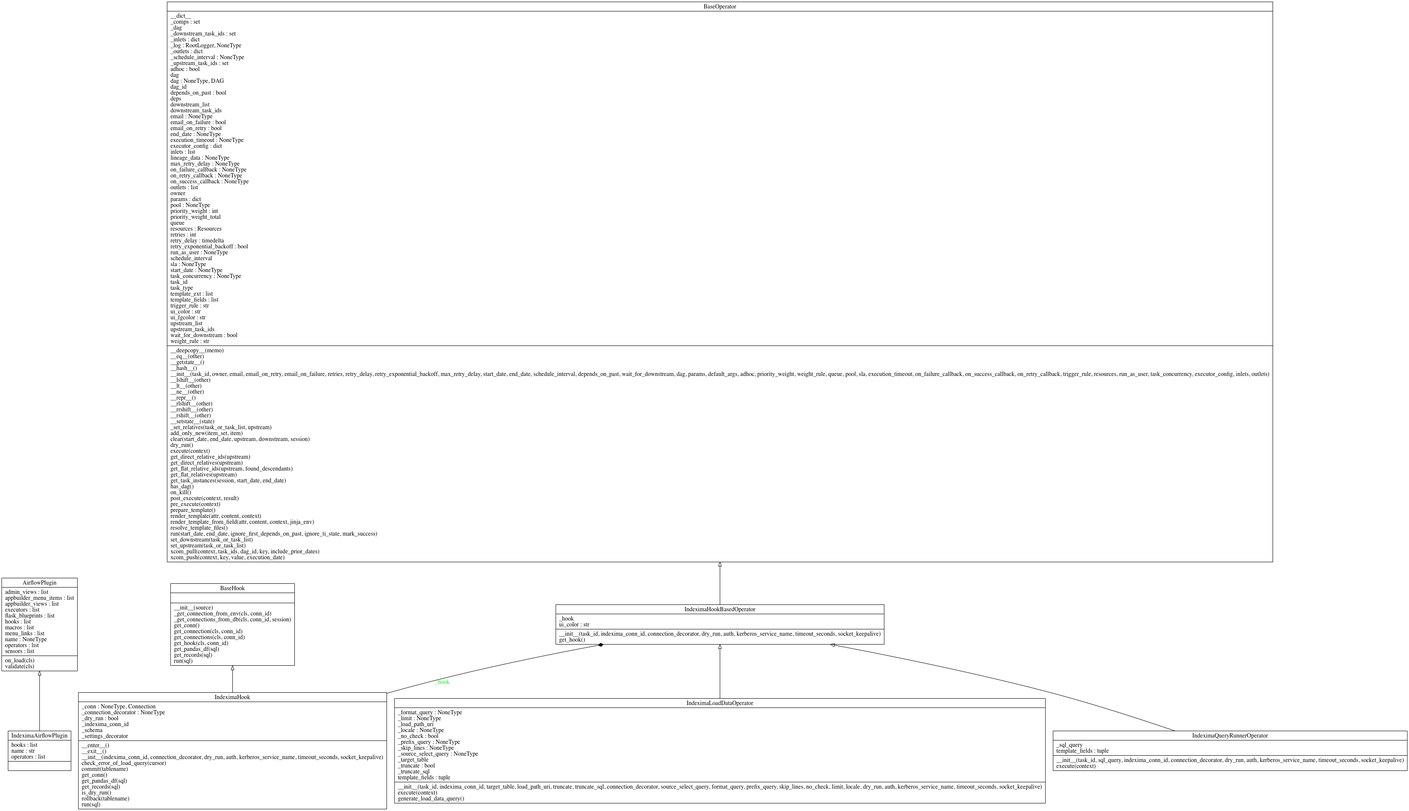
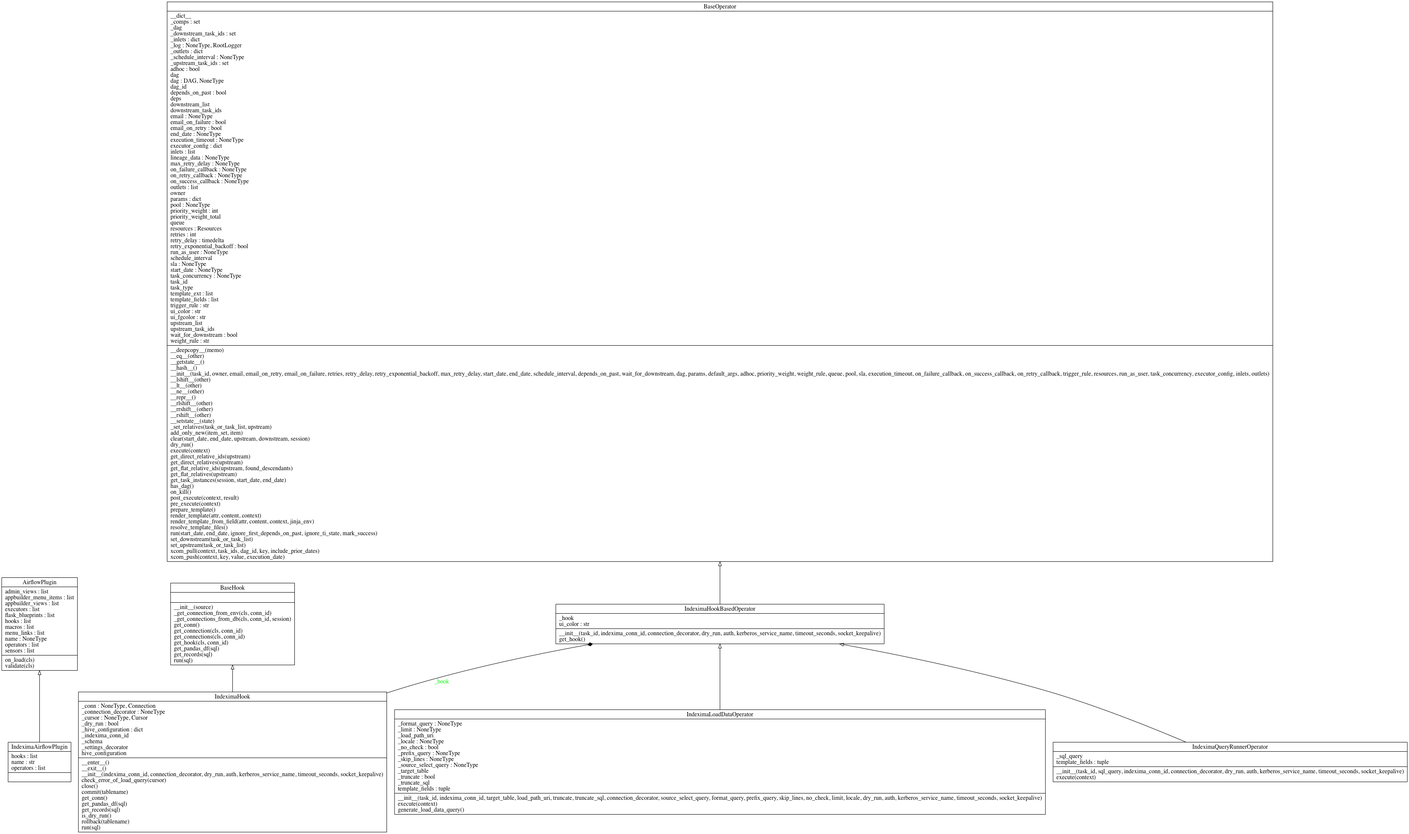
add doc

diff --git a/docs/api/operators/index.html b/docs/api/operators/index.html
@@ -677,7 +677,7 @@
                 <h1 id="airflow_indeximaoperatorsindexima">airflow_indexima.operators.indexima<a class="headerlink" href="#airflow_indeximaoperatorsindexima" title="Permanent link">&para;</a></h1>
 <p>Indexima operators module definition.</p>
 <h2 id="indeximahookbasedoperator">IndeximaHookBasedOperator<a class="headerlink" href="#indeximahookbasedoperator" title="Permanent link">&para;</a></h2>
-<p><div class="codehilite"><pre><span></span><span class="n">IndeximaHookBasedOperator</span><span class="p">(</span><span class="bp">self</span><span class="p">,</span> <span class="n">task_id</span><span class="p">:</span><span class="nb">str</span><span class="p">,</span> <span class="n">indexima_conn_id</span><span class="p">:</span><span class="nb">str</span><span class="p">,</span> <span class="n">connection_decorator</span><span class="p">:</span><span class="n">Union</span><span class="p">[</span><span class="n">Callable</span><span class="p">[[</span><span class="n">airflow</span><span class="o">.</span><span class="n">models</span><span class="o">.</span><span class="n">Connection</span><span class="p">],</span> <span class="n">airflow</span><span class="o">.</span><span class="n">models</span><span class="o">.</span><span class="n">Connection</span><span class="p">],</span> <span class="n">NoneType</span><span class="p">]</span><span class="o">=</span><span class="kc">None</span><span class="p">,</span> <span class="n">dry_run</span><span class="p">:</span><span class="n">Union</span><span class="p">[</span><span class="nb">bool</span><span class="p">,</span> <span class="n">NoneType</span><span class="p">]</span><span class="o">=</span><span class="kc">False</span><span class="p">,</span> <span class="n">auth</span><span class="p">:</span><span class="n">Union</span><span class="p">[</span><span class="nb">str</span><span class="p">,</span> <span class="n">NoneType</span><span class="p">]</span><span class="o">=</span><span class="kc">None</span><span class="p">,</span> <span class="n">kerberos_service_name</span><span class="p">:</span><span class="n">Union</span><span class="p">[</span><span class="nb">str</span><span class="p">,</span> <span class="n">NoneType</span><span class="p">]</span><span class="o">=</span><span class="kc">None</span><span class="p">,</span> <span class="n">timeout_seconds</span><span class="p">:</span><span class="n">Union</span><span class="p">[</span><span class="nb">int</span><span class="p">,</span> <span class="n">NoneType</span><span class="p">]</span><span class="o">=</span><span class="kc">None</span><span class="p">,</span> <span class="n">socket_keepalive</span><span class="p">:</span><span class="n">Union</span><span class="p">[</span><span class="nb">bool</span><span class="p">,</span> <span class="n">NoneType</span><span class="p">]</span><span class="o">=</span><span class="kc">None</span><span class="p">,</span> <span class="o">*</span><span class="n">args</span><span class="p">,</span> <span class="o">**</span><span class="n">kwargs</span><span class="p">)</span>
+<p><div class="codehilite"><pre><span></span><span class="n">IndeximaHookBasedOperator</span><span class="p">(</span><span class="bp">self</span><span class="p">,</span> <span class="n">task_id</span><span class="p">:</span><span class="nb">str</span><span class="p">,</span> <span class="n">indexima_conn_id</span><span class="p">:</span><span class="nb">str</span><span class="p">,</span> <span class="n">connection_decorator</span><span class="p">:</span><span class="n">Union</span><span class="p">[</span><span class="n">Callable</span><span class="p">[[</span><span class="n">airflow</span><span class="o">.</span><span class="n">models</span><span class="o">.</span><span class="n">Connection</span><span class="p">],</span> <span class="n">airflow</span><span class="o">.</span><span class="n">models</span><span class="o">.</span><span class="n">Connection</span><span class="p">],</span> <span class="n">NoneType</span><span class="p">]</span><span class="o">=</span><span class="kc">None</span><span class="p">,</span> <span class="n">dry_run</span><span class="p">:</span><span class="n">Union</span><span class="p">[</span><span class="nb">bool</span><span class="p">,</span> <span class="n">NoneType</span><span class="p">]</span><span class="o">=</span><span class="kc">False</span><span class="p">,</span> <span class="n">auth</span><span class="p">:</span><span class="n">Union</span><span class="p">[</span><span class="nb">str</span><span class="p">,</span> <span class="n">NoneType</span><span class="p">]</span><span class="o">=</span><span class="kc">None</span><span class="p">,</span> <span class="n">kerberos_service_name</span><span class="p">:</span><span class="n">Union</span><span class="p">[</span><span class="nb">str</span><span class="p">,</span> <span class="n">NoneType</span><span class="p">]</span><span class="o">=</span><span class="kc">None</span><span class="p">,</span> <span class="n">timeout_seconds</span><span class="p">:</span><span class="n">Union</span><span class="p">[</span><span class="nb">int</span><span class="p">,</span> <span class="n">datetime</span><span class="o">.</span><span class="n">timedelta</span><span class="p">,</span> <span class="n">NoneType</span><span class="p">]</span><span class="o">=</span><span class="kc">None</span><span class="p">,</span> <span class="n">socket_keepalive</span><span class="p">:</span><span class="n">Union</span><span class="p">[</span><span class="nb">bool</span><span class="p">,</span> <span class="n">NoneType</span><span class="p">]</span><span class="o">=</span><span class="kc">None</span><span class="p">,</span> <span class="o">*</span><span class="n">args</span><span class="p">,</span> <span class="o">**</span><span class="n">kwargs</span><span class="p">)</span>
 </pre></div>
 Our base class for indexima operator.</p>
 <p>This class act as a wrapper on IndeximaHook.</p>
@@ -696,7 +696,7 @@ errors defaults to 'strict'.</p>
 </pre></div>
 Return a configured IndeximaHook instance.</p>
 <h2 id="indeximaqueryrunneroperator">IndeximaQueryRunnerOperator<a class="headerlink" href="#indeximaqueryrunneroperator" title="Permanent link">&para;</a></h2>
-<p><div class="codehilite"><pre><span></span><span class="n">IndeximaQueryRunnerOperator</span><span class="p">(</span><span class="bp">self</span><span class="p">,</span> <span class="n">task_id</span><span class="p">:</span><span class="nb">str</span><span class="p">,</span> <span class="n">sql_query</span><span class="p">:</span><span class="nb">str</span><span class="p">,</span> <span class="n">indexima_conn_id</span><span class="p">:</span><span class="nb">str</span><span class="p">,</span> <span class="n">connection_decorator</span><span class="p">:</span><span class="n">Union</span><span class="p">[</span><span class="n">Callable</span><span class="p">[[</span><span class="n">airflow</span><span class="o">.</span><span class="n">models</span><span class="o">.</span><span class="n">Connection</span><span class="p">],</span> <span class="n">airflow</span><span class="o">.</span><span class="n">models</span><span class="o">.</span><span class="n">Connection</span><span class="p">],</span> <span class="n">NoneType</span><span class="p">]</span><span class="o">=</span><span class="kc">None</span><span class="p">,</span> <span class="n">dry_run</span><span class="p">:</span><span class="n">Union</span><span class="p">[</span><span class="nb">bool</span><span class="p">,</span> <span class="n">NoneType</span><span class="p">]</span><span class="o">=</span><span class="kc">False</span><span class="p">,</span> <span class="n">auth</span><span class="p">:</span><span class="n">Union</span><span class="p">[</span><span class="nb">str</span><span class="p">,</span> <span class="n">NoneType</span><span class="p">]</span><span class="o">=</span><span class="kc">None</span><span class="p">,</span> <span class="n">kerberos_service_name</span><span class="p">:</span><span class="n">Union</span><span class="p">[</span><span class="nb">str</span><span class="p">,</span> <span class="n">NoneType</span><span class="p">]</span><span class="o">=</span><span class="kc">None</span><span class="p">,</span> <span class="n">timeout_seconds</span><span class="p">:</span><span class="n">Union</span><span class="p">[</span><span class="nb">int</span><span class="p">,</span> <span class="n">NoneType</span><span class="p">]</span><span class="o">=</span><span class="kc">None</span><span class="p">,</span> <span class="n">socket_keepalive</span><span class="p">:</span><span class="n">Union</span><span class="p">[</span><span class="nb">bool</span><span class="p">,</span> <span class="n">NoneType</span><span class="p">]</span><span class="o">=</span><span class="kc">None</span><span class="p">,</span> <span class="o">*</span><span class="n">args</span><span class="p">,</span> <span class="o">**</span><span class="n">kwargs</span><span class="p">)</span>
+<p><div class="codehilite"><pre><span></span><span class="n">IndeximaQueryRunnerOperator</span><span class="p">(</span><span class="bp">self</span><span class="p">,</span> <span class="n">task_id</span><span class="p">:</span><span class="nb">str</span><span class="p">,</span> <span class="n">sql_query</span><span class="p">:</span><span class="nb">str</span><span class="p">,</span> <span class="n">indexima_conn_id</span><span class="p">:</span><span class="nb">str</span><span class="p">,</span> <span class="n">connection_decorator</span><span class="p">:</span><span class="n">Union</span><span class="p">[</span><span class="n">Callable</span><span class="p">[[</span><span class="n">airflow</span><span class="o">.</span><span class="n">models</span><span class="o">.</span><span class="n">Connection</span><span class="p">],</span> <span class="n">airflow</span><span class="o">.</span><span class="n">models</span><span class="o">.</span><span class="n">Connection</span><span class="p">],</span> <span class="n">NoneType</span><span class="p">]</span><span class="o">=</span><span class="kc">None</span><span class="p">,</span> <span class="n">dry_run</span><span class="p">:</span><span class="n">Union</span><span class="p">[</span><span class="nb">bool</span><span class="p">,</span> <span class="n">NoneType</span><span class="p">]</span><span class="o">=</span><span class="kc">False</span><span class="p">,</span> <span class="n">auth</span><span class="p">:</span><span class="n">Union</span><span class="p">[</span><span class="nb">str</span><span class="p">,</span> <span class="n">NoneType</span><span class="p">]</span><span class="o">=</span><span class="kc">None</span><span class="p">,</span> <span class="n">kerberos_service_name</span><span class="p">:</span><span class="n">Union</span><span class="p">[</span><span class="nb">str</span><span class="p">,</span> <span class="n">NoneType</span><span class="p">]</span><span class="o">=</span><span class="kc">None</span><span class="p">,</span> <span class="n">timeout_seconds</span><span class="p">:</span><span class="n">Union</span><span class="p">[</span><span class="nb">int</span><span class="p">,</span> <span class="n">datetime</span><span class="o">.</span><span class="n">timedelta</span><span class="p">,</span> <span class="n">NoneType</span><span class="p">]</span><span class="o">=</span><span class="kc">None</span><span class="p">,</span> <span class="n">socket_keepalive</span><span class="p">:</span><span class="n">Union</span><span class="p">[</span><span class="nb">bool</span><span class="p">,</span> <span class="n">NoneType</span><span class="p">]</span><span class="o">=</span><span class="kc">None</span><span class="p">,</span> <span class="o">*</span><span class="n">args</span><span class="p">,</span> <span class="o">**</span><span class="n">kwargs</span><span class="p">)</span>
 </pre></div>
 A simple query executor.</p>
 <h3 id="template_fields">template_fields<a class="headerlink" href="#template_fields" title="Permanent link">&para;</a></h3>
@@ -712,7 +712,7 @@ Execute sql query.</p>
 <li><strong>context</strong>: dag context</li>
 </ul>
 <h2 id="indeximaloaddataoperator">IndeximaLoadDataOperator<a class="headerlink" href="#indeximaloaddataoperator" title="Permanent link">&para;</a></h2>
-<p><div class="codehilite"><pre><span></span><span class="n">IndeximaLoadDataOperator</span><span class="p">(</span><span class="bp">self</span><span class="p">,</span> <span class="n">task_id</span><span class="p">:</span><span class="nb">str</span><span class="p">,</span> <span class="n">indexima_conn_id</span><span class="p">:</span><span class="nb">str</span><span class="p">,</span> <span class="n">target_table</span><span class="p">:</span><span class="nb">str</span><span class="p">,</span> <span class="n">load_path_uri</span><span class="p">:</span><span class="nb">str</span><span class="p">,</span> <span class="n">truncate</span><span class="p">:</span><span class="nb">bool</span><span class="o">=</span><span class="kc">False</span><span class="p">,</span> <span class="n">truncate_sql</span><span class="p">:</span><span class="n">Union</span><span class="p">[</span><span class="nb">str</span><span class="p">,</span> <span class="n">NoneType</span><span class="p">]</span><span class="o">=</span><span class="kc">None</span><span class="p">,</span> <span class="n">connection_decorator</span><span class="p">:</span><span class="n">Union</span><span class="p">[</span><span class="n">Callable</span><span class="p">[[</span><span class="n">airflow</span><span class="o">.</span><span class="n">models</span><span class="o">.</span><span class="n">Connection</span><span class="p">],</span> <span class="n">airflow</span><span class="o">.</span><span class="n">models</span><span class="o">.</span><span class="n">Connection</span><span class="p">],</span> <span class="n">NoneType</span><span class="p">]</span><span class="o">=</span><span class="kc">None</span><span class="p">,</span> <span class="n">source_select_query</span><span class="p">:</span><span class="n">Union</span><span class="p">[</span><span class="nb">str</span><span class="p">,</span> <span class="n">NoneType</span><span class="p">]</span><span class="o">=</span><span class="kc">None</span><span class="p">,</span> <span class="n">format_query</span><span class="p">:</span><span class="n">Union</span><span class="p">[</span><span class="nb">str</span><span class="p">,</span> <span class="n">NoneType</span><span class="p">]</span><span class="o">=</span><span class="kc">None</span><span class="p">,</span> <span class="n">prefix_query</span><span class="p">:</span><span class="n">Union</span><span class="p">[</span><span class="nb">str</span><span class="p">,</span> <span class="n">NoneType</span><span class="p">]</span><span class="o">=</span><span class="kc">None</span><span class="p">,</span> <span class="n">skip_lines</span><span class="p">:</span><span class="n">Union</span><span class="p">[</span><span class="nb">int</span><span class="p">,</span> <span class="n">NoneType</span><span class="p">]</span><span class="o">=</span><span class="kc">None</span><span class="p">,</span> <span class="n">no_check</span><span class="p">:</span><span class="n">Union</span><span class="p">[</span><span class="nb">bool</span><span class="p">,</span> <span class="n">NoneType</span><span class="p">]</span><span class="o">=</span><span class="kc">False</span><span class="p">,</span> <span class="n">limit</span><span class="p">:</span><span class="n">Union</span><span class="p">[</span><span class="nb">int</span><span class="p">,</span> <span class="n">NoneType</span><span class="p">]</span><span class="o">=</span><span class="kc">None</span><span class="p">,</span> <span class="n">locale</span><span class="p">:</span><span class="n">Union</span><span class="p">[</span><span class="nb">str</span><span class="p">,</span> <span class="n">NoneType</span><span class="p">]</span><span class="o">=</span><span class="kc">None</span><span class="p">,</span> <span class="n">dry_run</span><span class="p">:</span><span class="n">Union</span><span class="p">[</span><span class="nb">bool</span><span class="p">,</span> <span class="n">NoneType</span><span class="p">]</span><span class="o">=</span><span class="kc">False</span><span class="p">,</span> <span class="n">auth</span><span class="p">:</span><span class="n">Union</span><span class="p">[</span><span class="nb">str</span><span class="p">,</span> <span class="n">NoneType</span><span class="p">]</span><span class="o">=</span><span class="kc">None</span><span class="p">,</span> <span class="n">kerberos_service_name</span><span class="p">:</span><span class="n">Union</span><span class="p">[</span><span class="nb">str</span><span class="p">,</span> <span class="n">NoneType</span><span class="p">]</span><span class="o">=</span><span class="kc">None</span><span class="p">,</span> <span class="n">timeout_seconds</span><span class="p">:</span><span class="n">Union</span><span class="p">[</span><span class="nb">int</span><span class="p">,</span> <span class="n">NoneType</span><span class="p">]</span><span class="o">=</span><span class="kc">None</span><span class="p">,</span> <span class="n">socket_keepalive</span><span class="p">:</span><span class="n">Union</span><span class="p">[</span><span class="nb">bool</span><span class="p">,</span> <span class="n">NoneType</span><span class="p">]</span><span class="o">=</span><span class="kc">None</span><span class="p">,</span> <span class="o">*</span><span class="n">args</span><span class="p">,</span> <span class="o">**</span><span class="n">kwargs</span><span class="p">)</span>
+<p><div class="codehilite"><pre><span></span><span class="n">IndeximaLoadDataOperator</span><span class="p">(</span><span class="bp">self</span><span class="p">,</span> <span class="n">task_id</span><span class="p">:</span><span class="nb">str</span><span class="p">,</span> <span class="n">indexima_conn_id</span><span class="p">:</span><span class="nb">str</span><span class="p">,</span> <span class="n">target_table</span><span class="p">:</span><span class="nb">str</span><span class="p">,</span> <span class="n">load_path_uri</span><span class="p">:</span><span class="nb">str</span><span class="p">,</span> <span class="n">truncate</span><span class="p">:</span><span class="nb">bool</span><span class="o">=</span><span class="kc">False</span><span class="p">,</span> <span class="n">truncate_sql</span><span class="p">:</span><span class="n">Union</span><span class="p">[</span><span class="nb">str</span><span class="p">,</span> <span class="n">NoneType</span><span class="p">]</span><span class="o">=</span><span class="kc">None</span><span class="p">,</span> <span class="n">connection_decorator</span><span class="p">:</span><span class="n">Union</span><span class="p">[</span><span class="n">Callable</span><span class="p">[[</span><span class="n">airflow</span><span class="o">.</span><span class="n">models</span><span class="o">.</span><span class="n">Connection</span><span class="p">],</span> <span class="n">airflow</span><span class="o">.</span><span class="n">models</span><span class="o">.</span><span class="n">Connection</span><span class="p">],</span> <span class="n">NoneType</span><span class="p">]</span><span class="o">=</span><span class="kc">None</span><span class="p">,</span> <span class="n">source_select_query</span><span class="p">:</span><span class="n">Union</span><span class="p">[</span><span class="nb">str</span><span class="p">,</span> <span class="n">NoneType</span><span class="p">]</span><span class="o">=</span><span class="kc">None</span><span class="p">,</span> <span class="n">format_query</span><span class="p">:</span><span class="n">Union</span><span class="p">[</span><span class="nb">str</span><span class="p">,</span> <span class="n">NoneType</span><span class="p">]</span><span class="o">=</span><span class="kc">None</span><span class="p">,</span> <span class="n">prefix_query</span><span class="p">:</span><span class="n">Union</span><span class="p">[</span><span class="nb">str</span><span class="p">,</span> <span class="n">NoneType</span><span class="p">]</span><span class="o">=</span><span class="kc">None</span><span class="p">,</span> <span class="n">skip_lines</span><span class="p">:</span><span class="n">Union</span><span class="p">[</span><span class="nb">int</span><span class="p">,</span> <span class="n">NoneType</span><span class="p">]</span><span class="o">=</span><span class="kc">None</span><span class="p">,</span> <span class="n">no_check</span><span class="p">:</span><span class="n">Union</span><span class="p">[</span><span class="nb">bool</span><span class="p">,</span> <span class="n">NoneType</span><span class="p">]</span><span class="o">=</span><span class="kc">False</span><span class="p">,</span> <span class="n">limit</span><span class="p">:</span><span class="n">Union</span><span class="p">[</span><span class="nb">int</span><span class="p">,</span> <span class="n">NoneType</span><span class="p">]</span><span class="o">=</span><span class="kc">None</span><span class="p">,</span> <span class="n">locale</span><span class="p">:</span><span class="n">Union</span><span class="p">[</span><span class="nb">str</span><span class="p">,</span> <span class="n">NoneType</span><span class="p">]</span><span class="o">=</span><span class="kc">None</span><span class="p">,</span> <span class="n">dry_run</span><span class="p">:</span><span class="n">Union</span><span class="p">[</span><span class="nb">bool</span><span class="p">,</span> <span class="n">NoneType</span><span class="p">]</span><span class="o">=</span><span class="kc">False</span><span class="p">,</span> <span class="n">auth</span><span class="p">:</span><span class="n">Union</span><span class="p">[</span><span class="nb">str</span><span class="p">,</span> <span class="n">NoneType</span><span class="p">]</span><span class="o">=</span><span class="kc">None</span><span class="p">,</span> <span class="n">kerberos_service_name</span><span class="p">:</span><span class="n">Union</span><span class="p">[</span><span class="nb">str</span><span class="p">,</span> <span class="n">NoneType</span><span class="p">]</span><span class="o">=</span><span class="kc">None</span><span class="p">,</span> <span class="n">timeout_seconds</span><span class="p">:</span><span class="n">Union</span><span class="p">[</span><span class="nb">int</span><span class="p">,</span> <span class="n">datetime</span><span class="o">.</span><span class="n">timedelta</span><span class="p">,</span> <span class="n">NoneType</span><span class="p">]</span><span class="o">=</span><span class="kc">None</span><span class="p">,</span> <span class="n">socket_keepalive</span><span class="p">:</span><span class="n">Union</span><span class="p">[</span><span class="nb">bool</span><span class="p">,</span> <span class="n">NoneType</span><span class="p">]</span><span class="o">=</span><span class="kc">None</span><span class="p">,</span> <span class="o">*</span><span class="n">args</span><span class="p">,</span> <span class="o">**</span><span class="n">kwargs</span><span class="p">)</span>
 </pre></div>
 Indexima load data operator.</p>
 <p>Operations:</p>

diff --git a/docs/index.html b/docs/index.html
@@ -357,16 +357,22 @@
 </li>
       
         <li class="md-nav__item">
-  <a href="#license" class="md-nav__link">
-    License
+  <a href="#production-feedback" class="md-nav__link">
+    Production Feedback
+  </a>
+  
+    <nav class="md-nav">
+      <ul class="md-nav__list">
+        
+          <li class="md-nav__item">
+  <a href="#tsocket-read-0-bytes" class="md-nav__link">
+    "TSocket read 0 bytes"
   </a>
   
 </li>
-      
-        <li class="md-nav__item">
-  <a href="#contributing" class="md-nav__link">
-    Contributing
-  </a>
+        
+      </ul>
+    </nav>
   
 </li>
       
@@ -696,16 +702,22 @@
 </li>
       
         <li class="md-nav__item">
-  <a href="#license" class="md-nav__link">
-    License
+  <a href="#production-feedback" class="md-nav__link">
+    Production Feedback
+  </a>
+  
+    <nav class="md-nav">
+      <ul class="md-nav__list">
+        
+          <li class="md-nav__item">
+  <a href="#tsocket-read-0-bytes" class="md-nav__link">
+    "TSocket read 0 bytes"
   </a>
   
 </li>
-      
-        <li class="md-nav__item">
-  <a href="#contributing" class="md-nav__link">
-    Contributing
-  </a>
+        
+      </ul>
+    </nav>
   
 </li>
       
@@ -886,6 +898,75 @@ and use it as a function in your dag.</p>
 <li>an uri factory <code>UriGeneratorFactory = Callable[[str, Optional[ConnectionDecorator]], str]</code></li>
 </ul>
 <p>and return a function with no argument which can be called as a macro in dag's operator.</p>
+<h2 id="production-feedback">Production Feedback<a class="headerlink" href="#production-feedback" title="Permanent link">&para;</a></h2>
+<p>In production, you could have few strange behaviour like those that we have meet.</p>
+<h3 id="tsocket-read-0-bytes">"TSocket read 0 bytes"<a class="headerlink" href="#tsocket-read-0-bytes" title="Permanent link">&para;</a></h3>
+<p>You could fine this issue <a href="https://github.com/dropbox/PyHive/issues/240">https://github.com/dropbox/PyHive/issues/240</a> on long load query running.</p>
+<p>Try this in sequence:</p>
+<ol>
+<li>check your operator configuration, and set <code>timeout_seconds</code> member to 3600 second for example.
+   You could have a different behaviour when running a dag with/without airflow context in docker container.</li>
+<li>if your facing a broken pipe, after 300s, and you have an AWS NLB V2 :
+   Read again <a href="https://docs.aws.amazon.com/elasticloadbalancing/latest/network/network-load-balancers.html">network-load-balancers</a>, and focus on this:<blockquote>
+<p>Elastic Load Balancing sets the idle timeout value for TCP flows to 350 seconds. You cannot modify this value. For TCP listeners, clients or targets can use TCP keepalive packets to reset the idle timeout. TCP keepalive packets are not supported for TLS listeners.
+   We have tried for you the "socket_keep_alive", and it did not work at all.
+   Our solution was to remove our NLB and use a simple dns A field on indexima master.</p>
+</blockquote>
+</li>
+</ol>
+<h1 id="utf-8-or-could-not-read-byte-0">"utf-8" or could not read byte [0]<a class="headerlink" href="#utf-8-or-could-not-read-byte-0" title="Permanent link">&para;</a></h1>
+<p>Be very welcome to add <code>{ &quot;serialization.encoding&quot;: &quot;utf-8&quot;}</code>in hive_configuration member of IndeximaHook.</p>
+<p>This setting is set in IndeximaHook.<strong>init</strong>, may you override it ?</p>
+<h2 id="playing-airflow-without-airflow-server">Playing Airflow without Airflow Server<a class="headerlink" href="#playing-airflow-without-airflow-server" title="Permanent link">&para;</a></h2>
+<p>When I was trying many little things and deals with hive stuff, i wrote a single script that help me a lot.</p>
+<p>Feel free to use it (or not) to set your dag by yourself:</p>
+<div class="codehilite"><pre><span></span><span class="kn">import</span> <span class="nn">os</span>
+<span class="kn">import</span> <span class="nn">datetime</span>
+<span class="kn">from</span> <span class="nn">airflow.hooks.base_hook</span> <span class="kn">import</span> <span class="n">BaseHook</span>
+<span class="kn">from</span> <span class="nn">airflow</span> <span class="kn">import</span> <span class="n">DAG</span>
+<span class="kn">from</span> <span class="nn">airflow_indexima.operators.indexima</span> <span class="kn">import</span> <span class="n">IndeximaLoadDataOperator</span>
+
+<span class="c1"># here we create our Airflow Connection</span>
+<span class="n">os</span><span class="o">.</span><span class="n">environ</span><span class="p">[</span><span class="s1">&#39;AIRFLOW_CONN_INDEXIMA_ID&#39;</span><span class="p">]</span> <span class="o">=</span> <span class="s1">&#39;hive://my-user:my-password@my-server:10000/default&#39;</span>
+<span class="n">conn</span> <span class="o">=</span> <span class="n">BaseHook</span><span class="o">.</span><span class="n">get_connection</span><span class="p">(</span><span class="s1">&#39;indexima_id&#39;</span><span class="p">)</span>
+
+<span class="n">dag</span> <span class="o">=</span> <span class="n">DAG</span><span class="p">(</span>
+    <span class="n">dag_id</span><span class="o">=</span><span class="s1">&#39;my_dag&#39;</span><span class="p">,</span>
+    <span class="n">default_args</span><span class="o">=</span><span class="p">{</span>
+        <span class="s1">&#39;start_date&#39;</span><span class="p">:</span> <span class="n">datetime</span><span class="o">.</span><span class="n">datetime</span><span class="p">(</span><span class="n">year</span><span class="o">=</span><span class="mi">2019</span><span class="p">,</span> <span class="n">month</span><span class="o">=</span><span class="mi">12</span><span class="p">,</span> <span class="n">day</span><span class="o">=</span><span class="mi">1</span><span class="p">),</span>
+        <span class="s1">&#39;depends_on_past&#39;</span><span class="p">:</span> <span class="kc">False</span><span class="p">,</span>
+        <span class="s1">&#39;email_on_failure&#39;</span><span class="p">:</span> <span class="kc">False</span><span class="p">,</span>
+        <span class="s1">&#39;email&#39;</span><span class="p">:</span> <span class="p">[],</span>
+    <span class="p">},</span>
+<span class="p">)</span>
+
+<span class="k">with</span> <span class="n">dag</span><span class="p">:</span>
+
+    <span class="n">load_operator</span> <span class="o">=</span> <span class="n">IndeximaLoadDataOperator</span><span class="p">(</span>
+        <span class="n">task_id</span><span class="o">=</span><span class="s1">&#39;my_task&#39;</span><span class="p">,</span>
+        <span class="n">indexima_conn_id</span><span class="o">=</span><span class="s1">&#39;indexima_id&#39;</span><span class="p">,</span>
+        <span class="n">target_table</span><span class="o">=</span><span class="s1">&#39;my_table&#39;</span><span class="p">,</span>
+        <span class="n">source_select_query</span><span class="o">=</span><span class="p">(</span>
+            <span class="s2">&quot;select * from source_table where &quot;</span>
+            <span class="s2">&quot;creation_date_tms between &#39;2019-11-30T00:00:00+00:00&#39; and &#39;2019-11-30T12:59:59.000999+00:00&#39;&quot;</span>
+        <span class="p">),</span>
+        <span class="n">truncate</span><span class="o">=</span><span class="kc">True</span><span class="p">,</span>
+        <span class="n">truncate_sql</span><span class="o">=</span><span class="p">(</span>
+            <span class="s2">&quot;DELETE FROM my_table WHERE &quot;</span>
+            <span class="s2">&quot;creation_date_tms between &#39;2019-11-30T00:00:00+00:00&#39; and &#39;2019-11-30T12:59:59.000999+00:00&#39;&quot;</span>
+        <span class="p">),</span>
+        <span class="n">load_path_uri</span><span class="o">=</span><span class="s1">&#39;jdbc:postgresql://myserver:5439/db_common?user=etl_user&amp;password=a_strong_password&amp;ssl=true&#39;</span><span class="p">,</span>
+        <span class="n">retries</span><span class="o">=</span><span class="mi">2</span><span class="p">,</span>
+        <span class="n">execution_timeout</span><span class="o">=</span><span class="n">datetime</span><span class="o">.</span><span class="n">timedelta</span><span class="p">(</span><span class="n">hours</span><span class="o">=</span><span class="mi">3</span><span class="p">),</span>
+        <span class="n">sla</span><span class="o">=</span><span class="n">datetime</span><span class="o">.</span><span class="n">timedelta</span><span class="p">(</span><span class="n">hours</span><span class="o">=</span><span class="mi">1</span><span class="p">,</span> <span class="n">minutes</span><span class="o">=</span><span class="mi">30</span><span class="p">),</span>
+    <span class="p">)</span>
+
+    <span class="c1"># here we run the dag</span>
+    <span class="n">load_operator</span><span class="o">.</span><span class="n">execute</span><span class="p">(</span><span class="n">context</span><span class="o">=</span><span class="p">{})</span>
+
+<span class="k">del</span> <span class="n">os</span><span class="o">.</span><span class="n">environ</span><span class="p">[</span><span class="s1">&#39;AIRFLOW_CONN_INDEXIMA_ID&#39;</span><span class="p">]</span>
+</pre></div>
+
 <h2 id="license">License<a class="headerlink" href="#license" title="Permanent link">&para;</a></h2>
 <p><a href="https://geronimo-iia.github.io/airflow-indexima/license">The MIT License (MIT)</a></p>
 <h2 id="contributing">Contributing<a class="headerlink" href="#contributing" title="Permanent link">&para;</a></h2>

diff --git a/docs/api/hooks/index.html b/docs/api/hooks/index.html
@@ -308,6 +308,13 @@
       <ul class="md-nav__list">
         
           <li class="md-nav__item">
+  <a href="#hive_configuration" class="md-nav__link">
+    hive_configuration
+  </a>
+  
+</li>
+        
+          <li class="md-nav__item">
   <a href="#get_conn" class="md-nav__link">
     get_conn
   </a>
@@ -345,6 +352,13 @@
           <li class="md-nav__item">
   <a href="#rollback" class="md-nav__link">
     rollback
+  </a>
+  
+</li>
+        
+          <li class="md-nav__item">
+  <a href="#close" class="md-nav__link">
+    close
   </a>
   
 </li>
@@ -543,6 +557,13 @@
       <ul class="md-nav__list">
         
           <li class="md-nav__item">
+  <a href="#hive_configuration" class="md-nav__link">
+    hive_configuration
+  </a>
+  
+</li>
+        
+          <li class="md-nav__item">
   <a href="#get_conn" class="md-nav__link">
     get_conn
   </a>
@@ -584,6 +605,13 @@
   
 </li>
         
+          <li class="md-nav__item">
+  <a href="#close" class="md-nav__link">
+    close
+  </a>
+  
+</li>
+        
       </ul>
     </nav>
   
@@ -611,7 +639,7 @@
                 <h1 id="airflow_indeximahooksindexima">airflow_indexima.hooks.indexima<a class="headerlink" href="#airflow_indeximahooksindexima" title="Permanent link">&para;</a></h1>
 <p>Indexima hook module definition.</p>
 <h2 id="indeximahook">IndeximaHook<a class="headerlink" href="#indeximahook" title="Permanent link">&para;</a></h2>
-<p><div class="codehilite"><pre><span></span><span class="n">IndeximaHook</span><span class="p">(</span><span class="bp">self</span><span class="p">,</span> <span class="n">indexima_conn_id</span><span class="p">:</span><span class="nb">str</span><span class="p">,</span> <span class="n">connection_decorator</span><span class="p">:</span><span class="n">Union</span><span class="p">[</span><span class="n">Callable</span><span class="p">[[</span><span class="n">airflow</span><span class="o">.</span><span class="n">models</span><span class="o">.</span><span class="n">Connection</span><span class="p">],</span> <span class="n">airflow</span><span class="o">.</span><span class="n">models</span><span class="o">.</span><span class="n">Connection</span><span class="p">],</span> <span class="n">NoneType</span><span class="p">]</span><span class="o">=</span><span class="kc">None</span><span class="p">,</span> <span class="n">dry_run</span><span class="p">:</span><span class="n">Union</span><span class="p">[</span><span class="nb">bool</span><span class="p">,</span> <span class="n">NoneType</span><span class="p">]</span><span class="o">=</span><span class="kc">False</span><span class="p">,</span> <span class="n">auth</span><span class="p">:</span><span class="n">Union</span><span class="p">[</span><span class="nb">str</span><span class="p">,</span> <span class="n">NoneType</span><span class="p">]</span><span class="o">=</span><span class="kc">None</span><span class="p">,</span> <span class="n">kerberos_service_name</span><span class="p">:</span><span class="n">Union</span><span class="p">[</span><span class="nb">str</span><span class="p">,</span> <span class="n">NoneType</span><span class="p">]</span><span class="o">=</span><span class="kc">None</span><span class="p">,</span> <span class="n">timeout_seconds</span><span class="p">:</span><span class="n">Union</span><span class="p">[</span><span class="nb">int</span><span class="p">,</span> <span class="n">NoneType</span><span class="p">]</span><span class="o">=</span><span class="kc">None</span><span class="p">,</span> <span class="n">socket_keepalive</span><span class="p">:</span><span class="n">Union</span><span class="p">[</span><span class="nb">bool</span><span class="p">,</span> <span class="n">NoneType</span><span class="p">]</span><span class="o">=</span><span class="kc">None</span><span class="p">,</span> <span class="o">*</span><span class="n">args</span><span class="p">,</span> <span class="o">**</span><span class="n">kwargs</span><span class="p">)</span>
+<p><div class="codehilite"><pre><span></span><span class="n">IndeximaHook</span><span class="p">(</span><span class="bp">self</span><span class="p">,</span> <span class="n">indexima_conn_id</span><span class="p">:</span><span class="nb">str</span><span class="p">,</span> <span class="n">connection_decorator</span><span class="p">:</span><span class="n">Union</span><span class="p">[</span><span class="n">Callable</span><span class="p">[[</span><span class="n">airflow</span><span class="o">.</span><span class="n">models</span><span class="o">.</span><span class="n">Connection</span><span class="p">],</span> <span class="n">airflow</span><span class="o">.</span><span class="n">models</span><span class="o">.</span><span class="n">Connection</span><span class="p">],</span> <span class="n">NoneType</span><span class="p">]</span><span class="o">=</span><span class="kc">None</span><span class="p">,</span> <span class="n">dry_run</span><span class="p">:</span><span class="n">Union</span><span class="p">[</span><span class="nb">bool</span><span class="p">,</span> <span class="n">NoneType</span><span class="p">]</span><span class="o">=</span><span class="kc">False</span><span class="p">,</span> <span class="n">auth</span><span class="p">:</span><span class="n">Union</span><span class="p">[</span><span class="nb">str</span><span class="p">,</span> <span class="n">NoneType</span><span class="p">]</span><span class="o">=</span><span class="kc">None</span><span class="p">,</span> <span class="n">kerberos_service_name</span><span class="p">:</span><span class="n">Union</span><span class="p">[</span><span class="nb">str</span><span class="p">,</span> <span class="n">NoneType</span><span class="p">]</span><span class="o">=</span><span class="kc">None</span><span class="p">,</span> <span class="n">timeout_seconds</span><span class="p">:</span><span class="n">Union</span><span class="p">[</span><span class="nb">int</span><span class="p">,</span> <span class="n">datetime</span><span class="o">.</span><span class="n">timedelta</span><span class="p">,</span> <span class="n">NoneType</span><span class="p">]</span><span class="o">=</span><span class="kc">None</span><span class="p">,</span> <span class="n">socket_keepalive</span><span class="p">:</span><span class="n">Union</span><span class="p">[</span><span class="nb">bool</span><span class="p">,</span> <span class="n">NoneType</span><span class="p">]</span><span class="o">=</span><span class="kc">None</span><span class="p">,</span> <span class="o">*</span><span class="n">args</span><span class="p">,</span> <span class="o">**</span><span class="n">kwargs</span><span class="p">)</span>
 </pre></div>
 Indexima hook implementation.</p>
 <p>This implementation can be used as a context manager like this:</p>
@@ -622,6 +650,10 @@ Indexima hook implementation.</p>
 <p>This implementation can be customized with a <code>connection_decorator</code>function
 which must have this profile: Callable[[Connection], Connection] (alias ConnectionDecorator)</p>
 <p>In this handler you could retreive credentials from other backeng like aws ssm.</p>
+<h3 id="hive_configuration">hive_configuration<a class="headerlink" href="#hive_configuration" title="Permanent link">&para;</a></h3>
+<p>Return hive configuration.</p>
+<p><strong>Returns</strong></p>
+<p><code>(Dict[str, str])</code>: A dictionary of Hive settings (functionally same as the <code>set</code> command)</p>
 <h3 id="get_conn">get_conn<a class="headerlink" href="#get_conn" title="Permanent link">&para;</a></h3>
 <p><div class="codehilite"><pre><span></span><span class="n">IndeximaHook</span><span class="o">.</span><span class="n">get_conn</span><span class="p">(</span><span class="bp">self</span><span class="p">)</span> <span class="o">-&gt;</span> <span class="n">pyhive</span><span class="o">.</span><span class="n">hive</span><span class="o">.</span><span class="n">Connection</span>
 </pre></div>
@@ -665,6 +697,10 @@ Execute a simple rollback on table.</p>
 <ul>
 <li><strong>tablename (str)</strong>: table name to rollback</li>
 </ul>
+<h3 id="close">close<a class="headerlink" href="#close" title="Permanent link">&para;</a></h3>
+<p><div class="codehilite"><pre><span></span><span class="n">IndeximaHook</span><span class="o">.</span><span class="n">close</span><span class="p">(</span><span class="bp">self</span><span class="p">)</span>
+</pre></div>
+Close current connection.</p>
                 
                   
                 

diff --git a/docs/changelog/index.html b/docs/changelog/index.html
@@ -91,7 +91,7 @@
     <input class="md-toggle" data-md-toggle="search" type="checkbox" id="__search" autocomplete="off">
     <label class="md-overlay" data-md-component="overlay" for="__drawer"></label>
     
-      <a href="#220-soon" tabindex="1" class="md-skip">
+      <a href="#220-2019-12-12" tabindex="1" class="md-skip">
         Skip to content
       </a>
     
@@ -467,7 +467,7 @@
                   <a href="https://github.com/geronimo-iia/airflow-indexima/edit/master/docs/changelog.md" title="Edit this page" class="md-icon md-content__icon">&#xE3C9;</a>
                 
                 
-                <h1 id="220-soon">2.2.0 (soon)<a class="headerlink" href="#220-soon" title="Permanent link">&para;</a></h1>
+                <h1 id="220-2019-12-12">2.2.0 ((2019-12-12)<a class="headerlink" href="#220-2019-12-12" title="Permanent link">&para;</a></h1>
 <ul>
 <li>add dry_run mode on operator</li>
 <li>refactor uri module (simplier code)</li>
@@ -477,6 +477,16 @@
 <li>integrate hive transport factory in order to manage socket configuration</li>
 <li>add support for authentication mode: ldap, custom, kerberos and none</li>
 <li>add more documentation</li>
+<li>use thrift 0.13.0</li>
+<li>use a new connection on rollback</li>
+<li>log original error before rollback</li>
+<li>use information from <a href="https://www.ericlin.me/2015/07/how-to-configue-session-timeout-in-hive/">https://www.ericlin.me/2015/07/how-to-configue-session-timeout-in-hive/</a></li>
+<li>add 'hive_configuration' member to IndeximaHook</li>
+<li>change default time out to None</li>
+<li>use a single cursor instance per hook process</li>
+<li>set hive connection serialization encoding 'UTF-8'</li>
+<li>timeout can be specified with an int or a timedelta</li>
+<li>use execution_timeout member on operator to set timeout if this one is not specified</li>
 </ul>
 <h1 id="210-2019-12-04">2.1.0 (2019-12-04)<a class="headerlink" href="#210-2019-12-04" title="Permanent link">&para;</a></h1>
 <ul>

diff --git a/docs/api/hive_transport/index.html b/docs/api/hive_transport/index.html
@@ -606,7 +606,7 @@ Create a transport socket.</p>
 <ul>
 <li><strong>host (str)</strong>: The host to connect to.</li>
 <li><strong>port (int)</strong>: The (TCP) port to connect to.</li>
-<li><strong>timeout_seconds (Optional[int])</strong>: define the socket timeout in second (default 60)</li>
+<li><strong>timeout_seconds (Optional[int])</strong>: define the socket timeout in second</li>
 <li><strong>socket_keepalive (Optional[bool])</strong>: enable TCP keepalive, default False.</li>
 </ul>
 <p><strong>Returns</strong></p>
